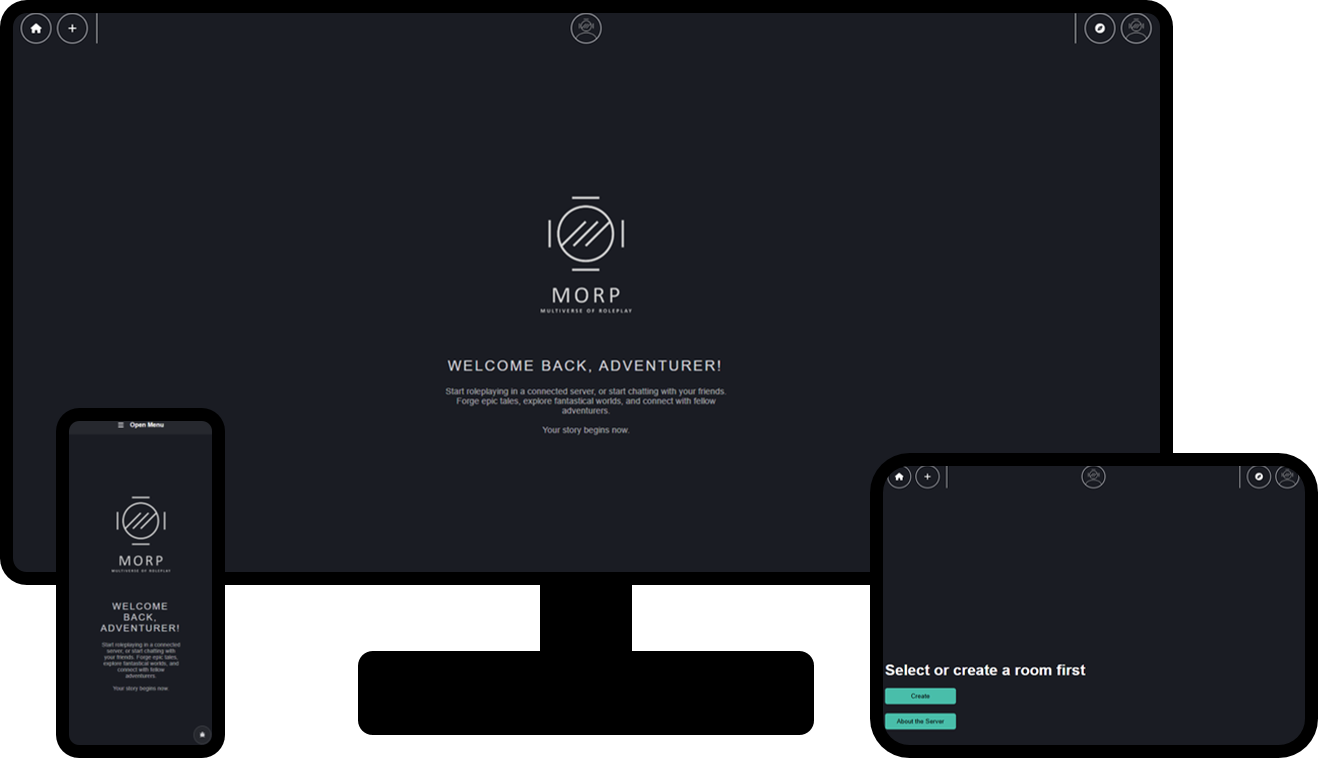
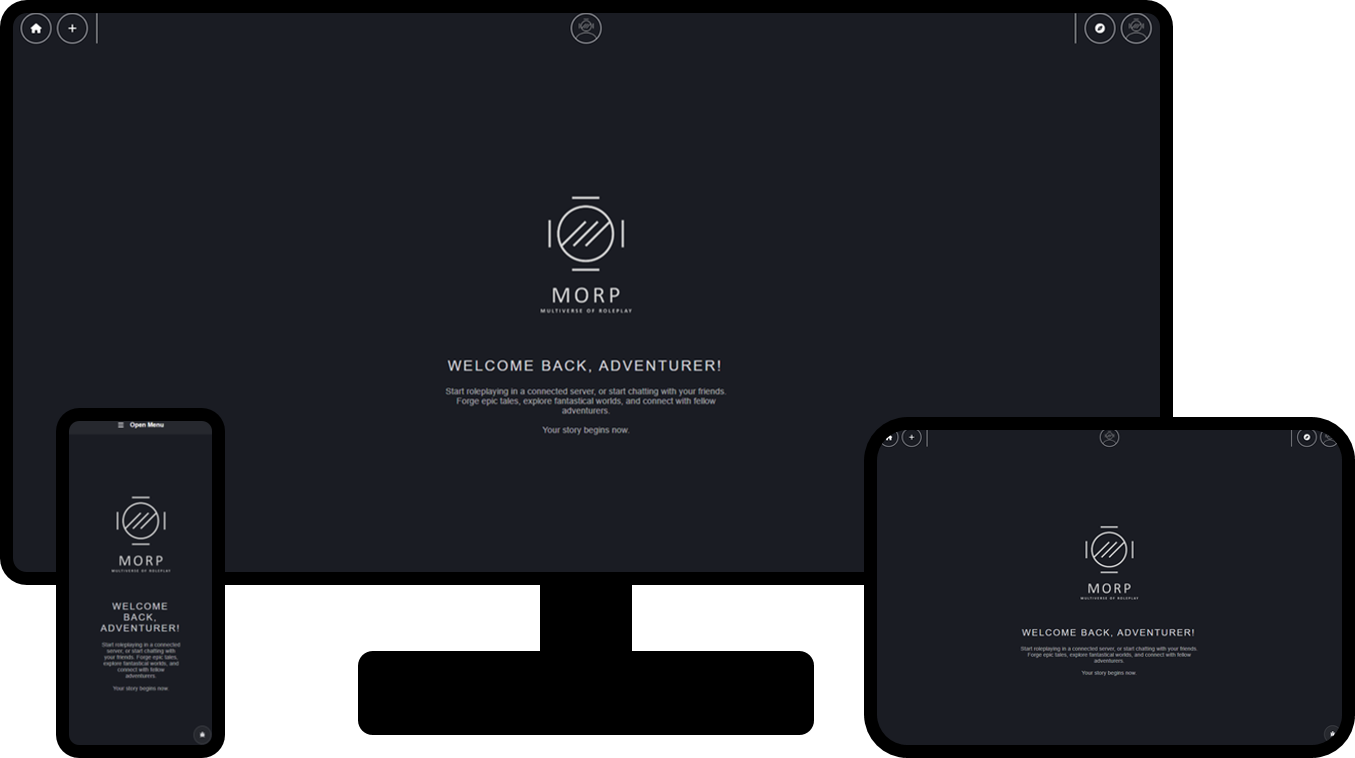
Home

diff --git a/client/src/style/Home/Home.scss b/client/src/style/Home/Home.scss
@@ -39,12 +39,24 @@
         }
     }
 
+}
+
+main.home-container {
+    flex-direction: column;
+    h1 {
+        font-size: 3.5rem;
+        font-weight: 700;
+        text-align: center;
+    }
     .image-container {
         display: flex;
-        justify-content: center;
+        flex-direction: column;
+        justify-content: flex-start; // Align items at the top
         align-items: center;
+        margin-top: 2rem;
         img {
-            max-width: 100%;
+            width: 700px;
+            max-width: 80%;
             height: auto;
         }
     }

diff --git a/client/src/pages/Home/Home.js b/client/src/pages/Home/Home.js
@@ -13,11 +13,11 @@ const Home = () => {
           </Helmet>
         </HelmetProvider>
 
+        <h1>Home</h1>
+        
         <div className="image-container">
           <img src={morpHomepic} alt="Morp Home" />
         </div>
-
-        <h1>Home</h1>
       </main>
     );
   };
